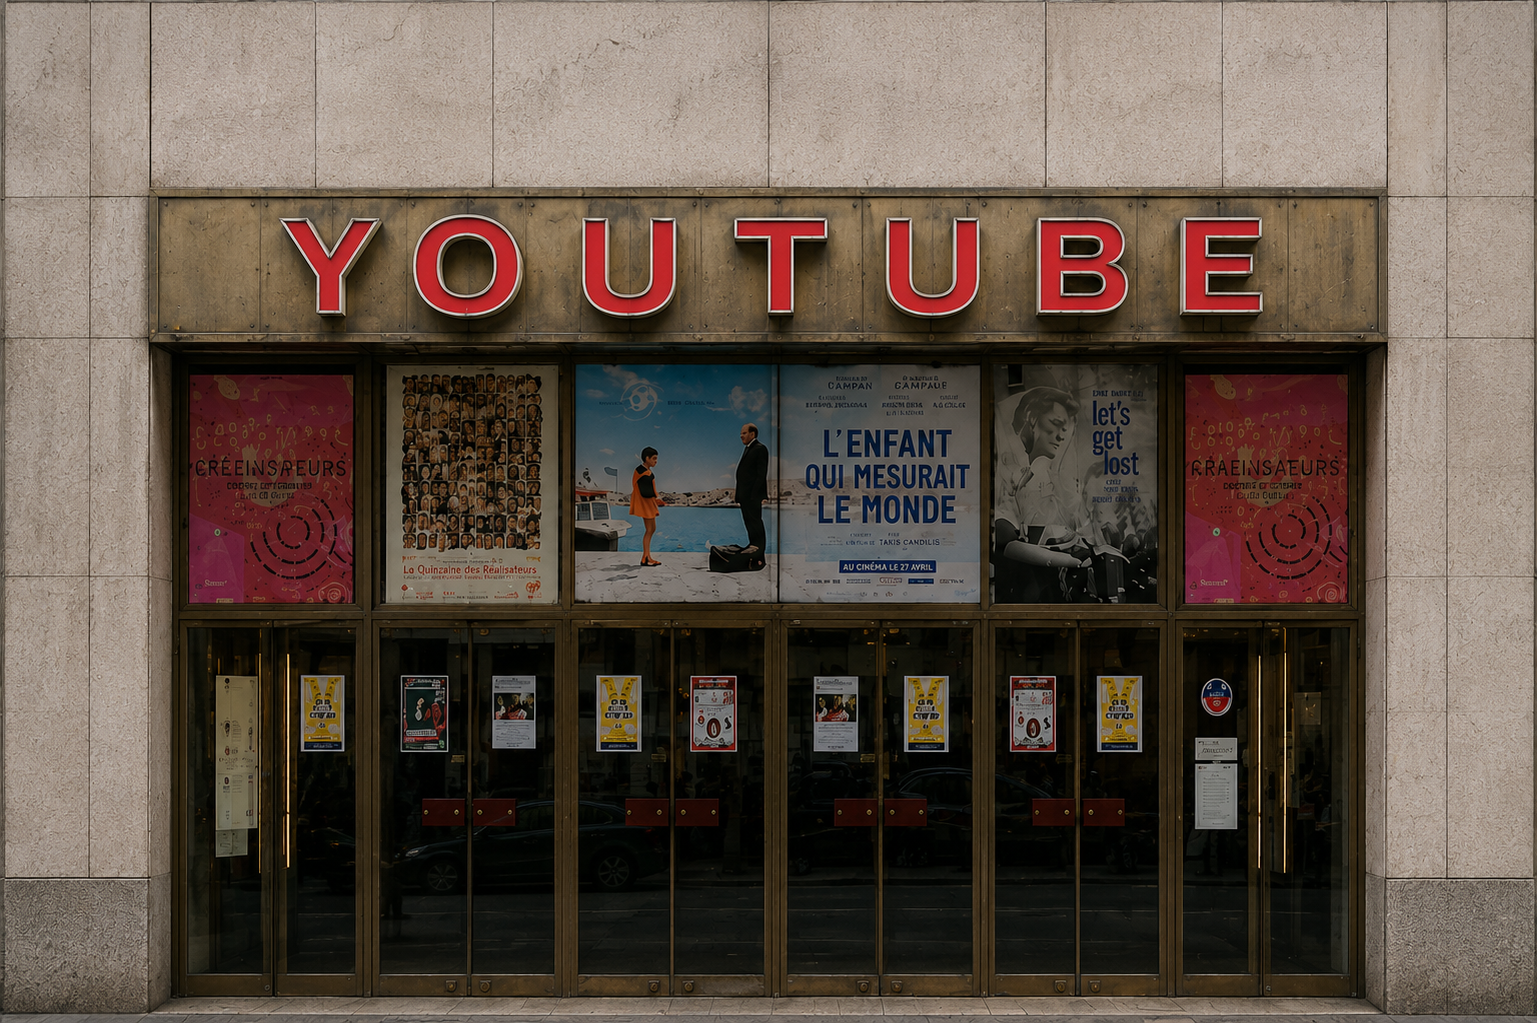
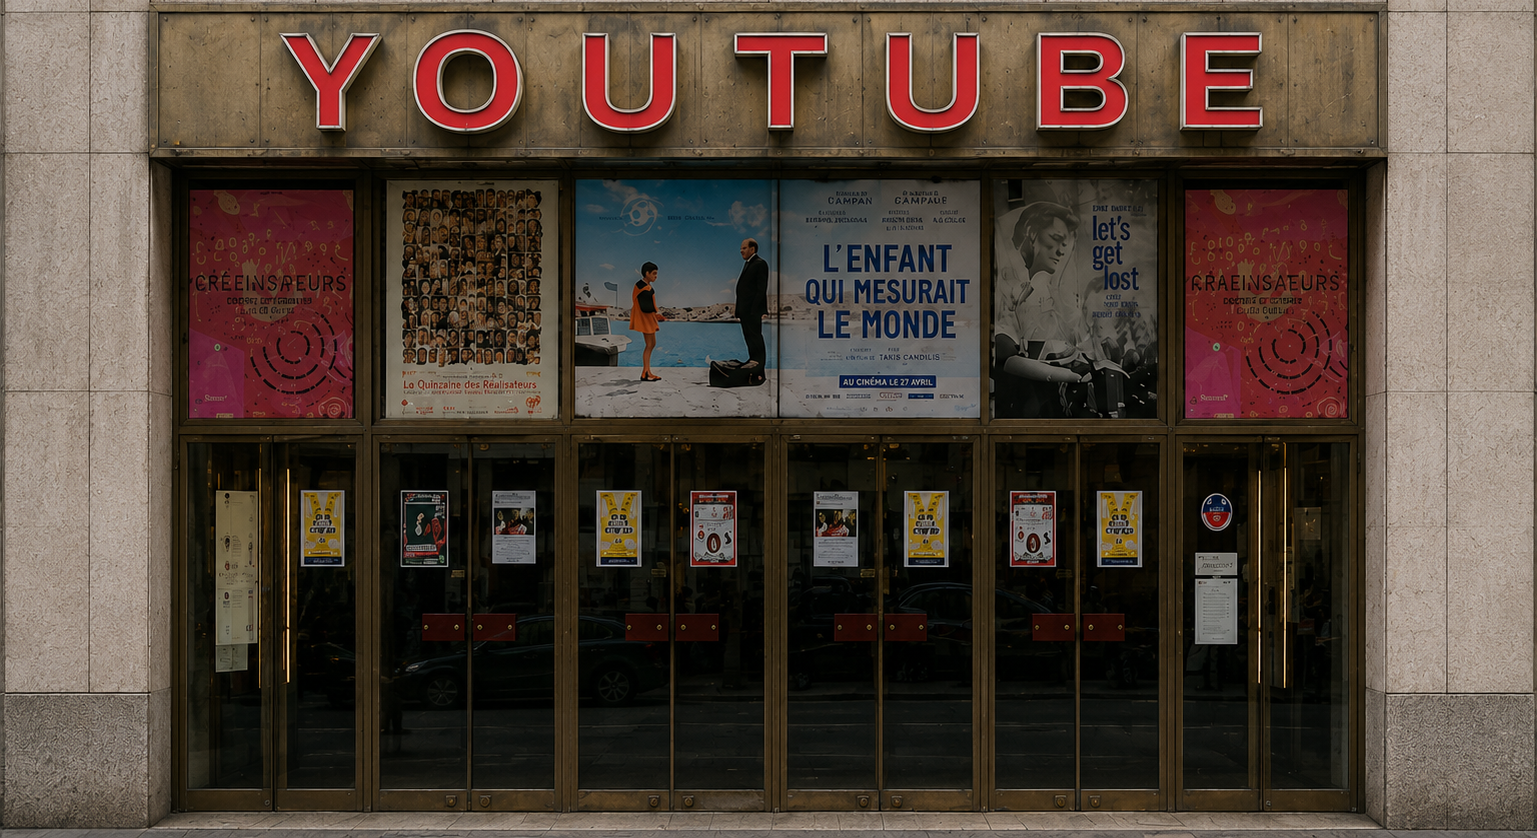
feat: replace YouTube Kino with updated facade image (#55) (#55)

diff --git a/linus-strasse/web/src/config/buildings.ts b/linus-strasse/web/src/config/buildings.ts
@@ -42,7 +42,7 @@ export const buildings: Building[] = [
     image: '/buildings/youtube-kino.png',
     alt: 'YouTube Kino — Linus auf YouTube',
     naturalWidth: 1537,
-    naturalHeight: 1023,
+    naturalHeight: 838,
     action: { type: 'external', target: 'https://www.youtube.com' },
   },
   {
